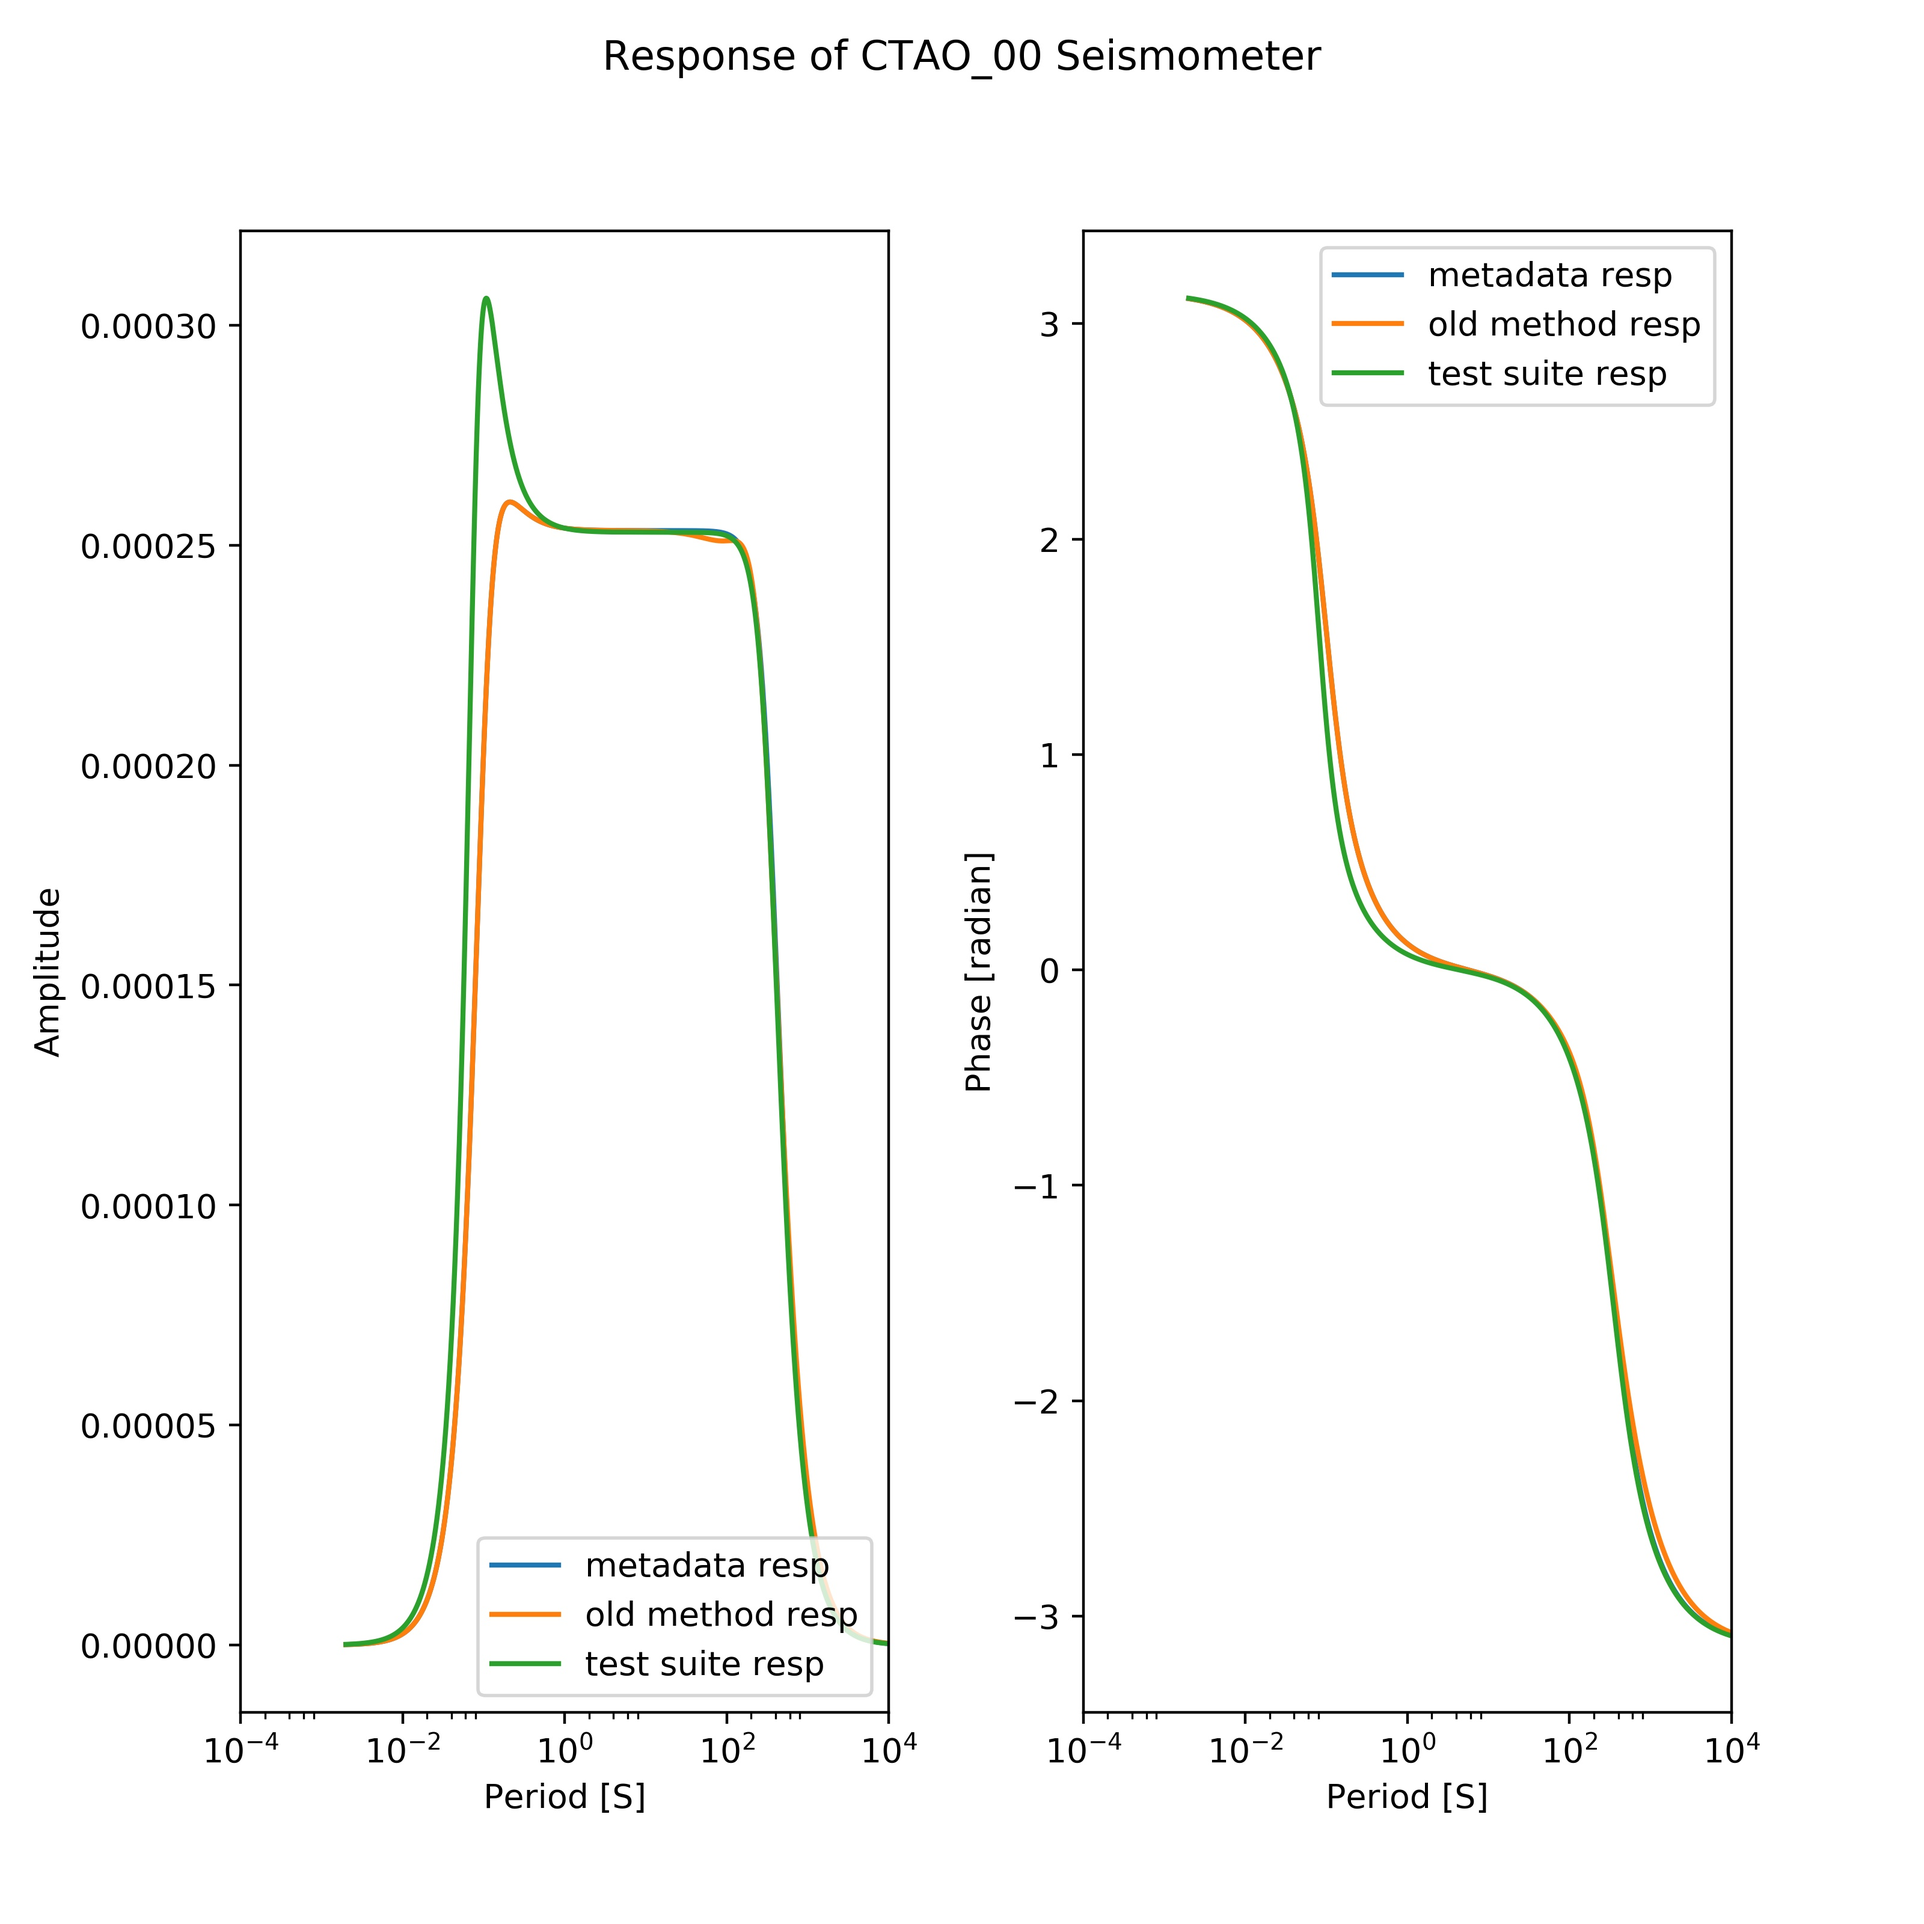
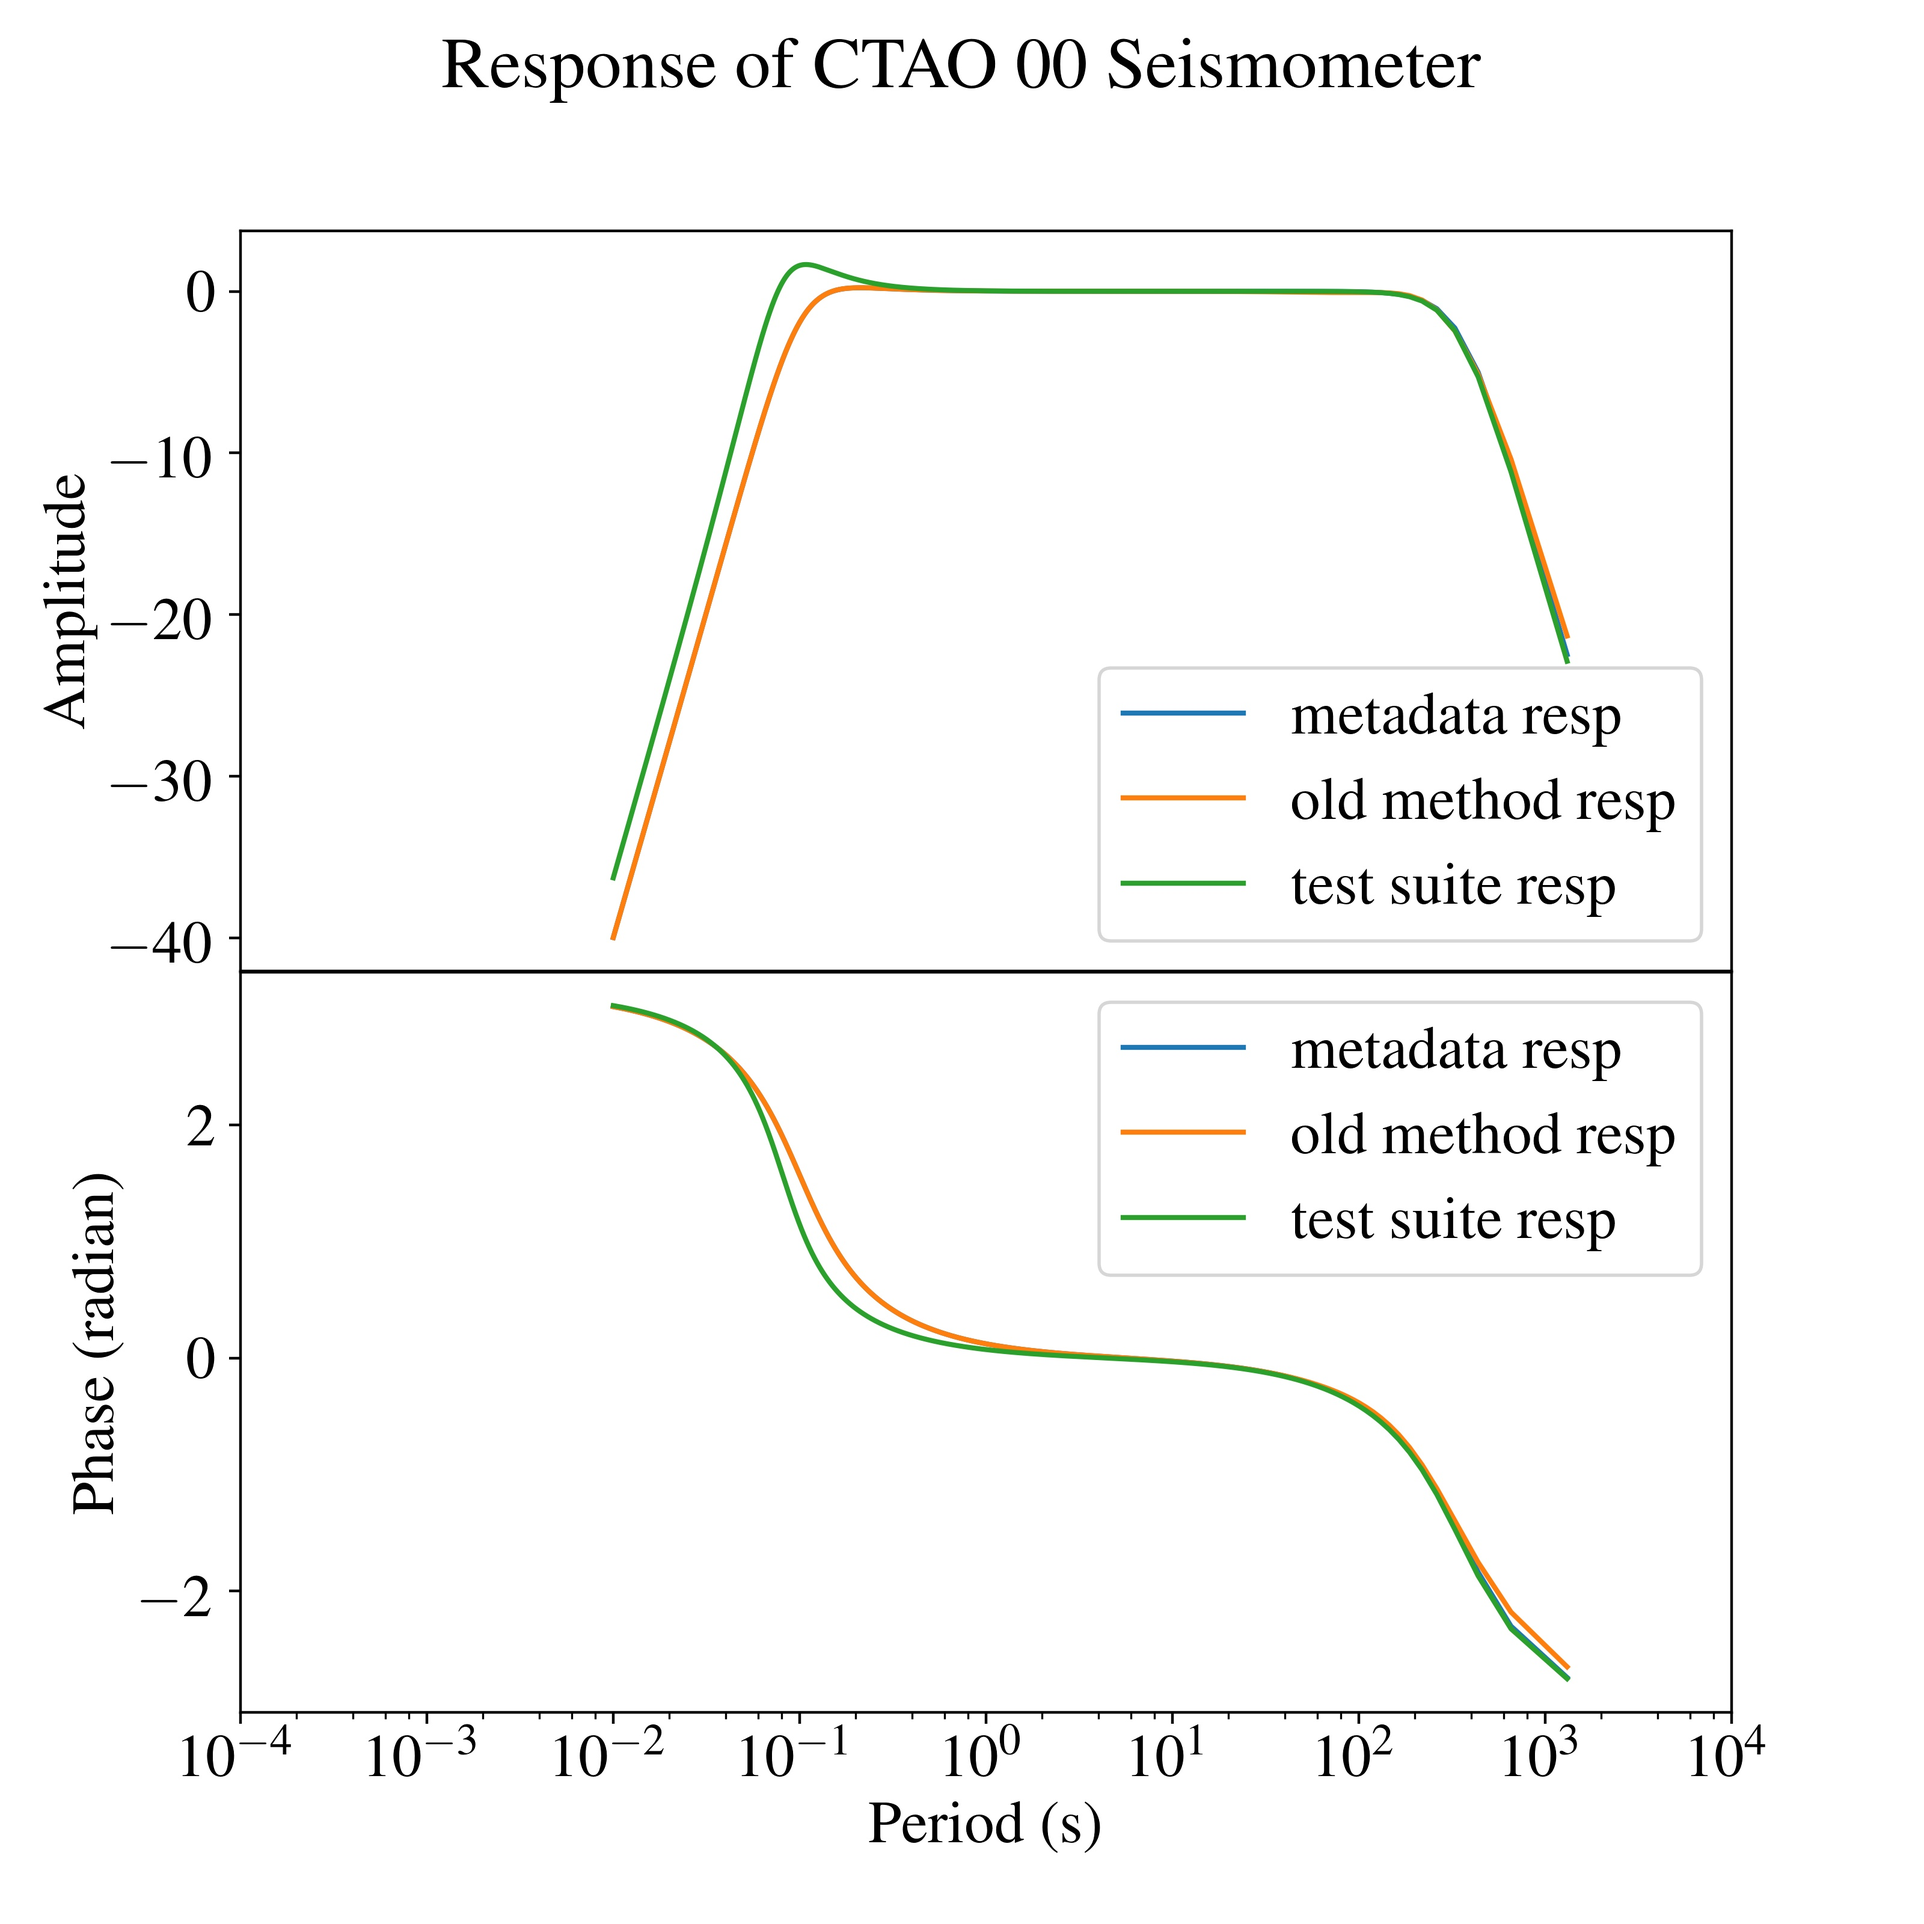
got updated plotting script from Adam that plots faster

diff --git a/pltresp.py b/pltresp.py
@@ -1,0 +1,76 @@
+#!/usr/bin/env python
+
+import numpy as np
+from obspy.signal.invsim import paz_2_amplitude_value_of_freq_resp, paz_to_freq_resp
+import matplotlib.pyplot as plt
+
+import matplotlib as mpl
+mpl.rc('font',family='serif')
+mpl.rc('font',serif='Times') 
+mpl.rc('text', usetex=True)
+mpl.rc('font',size=18)
+
+instName='CTAO 00'
+# use Austin's response class to build the resp from the poles and zeros
+# for ctao
+# this is the resp we have in /APPS/metadata
+
+paz1 = {'zeros':[0.000000E+00+ 0.000000E+00j, 0.000000E+00+ 0.000000E+00j],'poles': 
+        [-1.234000E-02+ 1.234000E-02j, -1.234000E-02+-1.234000E-02j, -3.918000E+01+ 4.912000E+01j, -3.918000E+01+-4.912000E+01j],'gain': 1}
+
+paz1['gain'] = 1./paz_2_amplitude_value_of_freq_resp(paz1, .1)
+
+
+# this is from /r02/scratch/CALS/NEW/IU_CTAO_2017_045/STS1VBBE3/ZP_CTAO_00_BHZ_2017_046_01_25_20_0000-14400
+paz2={'zeros': [0.000000E+00+ 0.000000E+00j, 0.000000E+00+ 0.000000E+00j, -4.147725E-02+ 0.000000E+00j, -4.147725E-02+ 0.000000E+00j],
+        'poles': [-1.703608E-02+ 1.234000E-02j,-1.703608E-02+-1.234000E-02j, -1.778991e-02+ 0.000000e-00j,-5.605308e-02+ 0.000000e-00j,
+            -3.918000E+01+ 4.912000E+01j, -3.918000E+01+-4.912000E+01j],'gain': 1}  
+paz2['gain'] = 1./paz_2_amplitude_value_of_freq_resp(paz2, .1)
+# this is from sensor test suite
+paz3 ={'zeros': [0.000000E+00+ 0.000000E+00j, 0.000000E+00+ 0.000000E+00j], 'poles':
+        [-1.263000E-02+ 1.265000E-02j, -1.263000E-02+-1.265000E-02j, 
+            -3.620107E+01+ 6.850121E+01j, -3.620107E+01+-6.850121E+01j],'gain':1}
+paz3['gain'] = 1./paz_2_amplitude_value_of_freq_resp(paz3, .1)
+
+h1,f1 = paz_to_freq_resp(paz1['poles'], paz1['zeros'], paz1['gain'], 1./200., 2**18, freq=True)
+h2,f2 = paz_to_freq_resp(paz2['poles'], paz2['zeros'], paz2['gain'], 1./200., 2**18, freq=True)
+h3,f3 = paz_to_freq_resp(paz3['poles'], paz3['zeros'], paz3['gain'], 1./200., 2**18, freq=True)
+#plotting....
+plt.figure(1, figsize=(8,8))
+plt.subplots_adjust(hspace=0.001)
+plt.subplot(211)
+
+print('plotting amplitude')
+plt.semilogx(1./f1, 20*np.log10(h1), label='metadata resp')
+plt.semilogx(1./f2, 20*np.log10(h2), label='old method resp')
+plt.semilogx(1./f3, 20*np.log10(h3), label='test suite resp')
+plt.legend()
+#plt.xlabel('Period [S]')
+
+plt.ylabel('Amplitude')
+plt.xlim([0.0001,10000])
+#plt.xlim([40,800])
+#plt.xlim([0.2,40])
+plt.xticks([])
+plt.subplot(212)
+# take negative of imaginary part
+print('plotting phase')
+phase = np.unwrap(np.arctan2(-h1.imag, h1.real))
+plt.semilogx(1/f1, phase, label='metadata resp')
+phase = np.unwrap(np.arctan2(-h2.imag, h2.real))
+plt.semilogx(1/f2, phase, label='old method resp')
+phase = np.unwrap(np.arctan2(-h3.imag, h3.real))
+plt.semilogx(1/f3, phase, label='test suite resp')
+plt.legend()
+plt.xlabel('Period (s)')
+#plt.xlabel('Period [S]')
+plt.ylabel('Phase (radian)')
+# title, centered above both subplots
+plt.suptitle('Response of '+instName +' Seismometer')
+#plt.xlim([40,800])
+plt.xlim([0.0001,10000])
+# make more room in between subplots for the ylabel of right plot
+plt.subplots_adjust(wspace=0.3)
+print('writing file')
+figName=instName.replace(' ','_') + 'compareResp.jpg'
+plt.savefig(figName, format='JPEG',dpi=400)

diff --git a/plot2resps.py b/plot2resps.py
@@ -104,6 +104,7 @@ print(h3)
 #plotting....
 plt.figure(1,figsize=(8,8))
 plt.subplot(121)
+plt.ioff()
 #plt.loglog(f, abs(h))
 print('plotting amplitude')
 #plt.semilogx(1/f1,abs(h1)/A01, label='metadata resp')
@@ -141,6 +142,7 @@ plt.xlim([0.0001,10000])
 plt.subplots_adjust(wspace=0.3)
 print('writing file')
 figName=instName + 'compareResp.jpg'
+plt.draw()
 plt.savefig(figName, format='JPEG',dpi=400)
 #plt.show()
 
